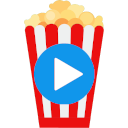
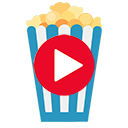
Dropdown for userList (#19)
* update icon &manifest

* remove 1.png

* commit

* merging the version 0.6

* changed the description to fit the wall

* update desciption

* description update

* dropdown update

* minor bugs fixed

* updated Dropdown by userlist

diff --git a/Extension/src/js/components/ChatBox.js b/Extension/src/js/components/ChatBox.js
@@ -1,9 +1,12 @@
+/* eslint-disable jsx-a11y/click-events-have-key-events */
+/* eslint-disable jsx-a11y/no-static-element-interactions */
 /* eslint-disable react/prop-types */
 import React from 'react';
 import * as io from 'socket.io-client';
 import { CopyToClipboard } from 'react-copy-to-clipboard';
 import ReactTooltip from 'react-tooltip';
-import { MdLastPage, MdFirstPage } from 'react-icons/md';
+import { MdLastPage, MdFirstPage, MdGroup } from 'react-icons/md';
+import { FiLink } from 'react-icons/fi';
 import { GiphyFetch } from '@giphy/js-fetch-api';
 import Message from './Message';
 import SendMessageForm from './SendMessageForm';
@@ -15,6 +18,25 @@ function typingStatusFromUsers(users) {
   if (users.length === 0) return '';
   return `${users.join(', ')} ${users.length > 1 ? 'are' : 'is'} typing...`;
 }
+/* When the user clicks on the button,
+  toggle between hiding and showing the dropdown content */
+function myFunction() {
+  document.getElementById('myDropdown').classList.toggle('show');
+}
+
+// Close the dropdown if the user clicks outside of it
+window.onclick = function (event) {
+  if (!event.target.matches('.dropbtn')) {
+    const dropdowns = document.getElementsByClassName('dropdown-content');
+    let i;
+    for (i = 0; i < dropdowns.length; i++) {
+      const openDropdown = dropdowns[i];
+      if (openDropdown.classList.contains('show')) {
+        openDropdown.classList.remove('show');
+      }
+    }
+  }
+};
 
 class ChatBox extends React.Component {
   constructor(props) {
@@ -474,17 +496,34 @@ class ChatBox extends React.Component {
                 <div id="collapse-chat" className="collapse-btn" onClick={() => this.showHide()}>
                   <MdLastPage style={{ width: '100%', height: '100%' }} />
                 </div>
+                <div className="title-box bold">
+                  BingeBox
+                </div>
                 <CopyToClipboard text={currentSession}>
-                  <div className="username-input" id="copy-session">
-                    Share your session ID -
-                    {' '}
-                    {currentSession}
+                  <div className="copy-session-btn" id="copy-session">
+                    <FiLink style={{ width: '100%', height: '100%' }} />
                   </div>
                 </CopyToClipboard>
+                <div className="dropdown">
+                  <button onClick="myFunction()" className="dropbtn" type="button">
+                    {' '}
+                    <MdGroup style={{ width: '100%', height: '100%' }} />
+                    {' '}
+                  </button>
+                  <div id="myDropdown" className="dropdown-content">
+                    <a><VoiceChatter socket={this.socket} onlineUsers={onlineUsers} liveCalls={liveCalls} updateLiveCalls={(calls) => this.updateLiveCalls(calls)} /></a>
+
+                  </div>
+                </div>
+                <div className="dropdown">
+                  <button className="dropbtn" type="button">
+                    <MdGroup style={{ width: '100%', height: '100%' }} />
+                  </button>
+                  <div className="dropdown-content">
+                    <div><VoiceChatter socket={this.socket} onlineUsers={onlineUsers} liveCalls={liveCalls} updateLiveCalls={(calls) => this.updateLiveCalls(calls)} /></div>
+                  </div>
+                </div>
               </div>
-            </div>
-            <div className="card-psychic session-header" style={{ gridRow: 2 }}>
-              <VoiceChatter socket={this.socket} onlineUsers={onlineUsers} liveCalls={liveCalls} updateLiveCalls={(calls) => this.updateLiveCalls(calls)} />
             </div>
             <div id="chat-message-list">
               {receivedMsgs.map((messageData) => <Message username={nicknameInput} messageData={messageData} userId={this.socket.id} />)}

diff --git a/Extension/src/js/components/chatbox.css b/Extension/src/js/components/chatbox.css
@@ -90,7 +90,7 @@
   flex-direction: column-reverse;
   padding: 0 10px;
   margin-top: 10px;
-  grid-row: 3 / 19;
+  grid-row: 2 / 19;
   overflow-y: scroll;
 }
 .message-row {
@@ -240,28 +240,53 @@
 .session-header {
   grid-row: 1;
   width: 100%;
+  height: 60px;
   border-radius: 0;
   background: #121212;
   border-bottom: solid 0.5px rgba(255,255,255,0.1);
   margin-bottom: 0;
 }
+.title-box{
+  padding: 10px!important;
+  height: 40px;
+  width: 70%;
+  outline: 0;
+  font-size: 16px;
+  display: flex;
+  align-items: center;
+  /* background-color: rgba(255,255,255,0.04); */
+}
 #copy-session {
   transition: background-color .2s ease-in-out!important;
-  width: 90%;
+  width: auto;
   text-align: center;
   user-select: none;
   font-weight: 500;
   font-size: 14px;
   color: rgba(255, 255, 255, 0.88);
-  background-color: rgba(0,0,0,0.3);
   cursor: pointer;
+}
+.copy-session-btn {
+  position: relative;
+  padding: 10px!important;
+  height: 40px;
+  width: 100%;
+  outline: 0;
+  font-size: 16px;
+  color: var(--text-normal);
+}
+.copy-session-btn:hover {
+  background-color: rgba(255,255,255,0.3);
+  -webkit-box-sizing: border-box;
+  box-sizing: border-box;
+  border-radius: 3px;
+  border: 1px solid rgba(255,255,255,0.06);
+  -webkit-transition: border-color .2s ease-in-out!important;
+  transition: border-color .2s ease-in-out!important;
 }
 .collapse-btn {
   width: 20px;
   cursor: pointer;
-  align-self: center;
-  text-align: center;
-  /* width: 5%; */
   margin-right: 5%;
   transition: background-color .2s ease-in-out!important;
   border-radius: 2px;
@@ -288,6 +313,55 @@
 }
 .show-hide-button svg {
   fill: rgba(255, 255, 255, 0.87);
+}
+.dropbtn {
+  color: white;
+  padding: 16px;
+  font-size: 16px;
+  border: none;
+  cursor: pointer;
+  
+  left: 5px;
+  padding: 10px!important;
+  height: 40px;
+  width: 100%;
+}
+.dropbtn:hover, .dropbtn:focus {
+  background: #202124;
+}
+.dropdown {
+  float: right;
+  position: relative;
+  display: block;
+}
+
+.dropdown-content {
+  display: none;
+  position: absolute;
+  background: #121212;
+  min-width: 300px;
+  overflow: auto;
+  box-shadow: 0px 8px 16px 0px rgba(0,0,0,0.2);
+  right: 0;
+  z-index: 1;
+  
+  width: 150%;
+}
+
+.dropdown-content a{
+  color: black;
+  padding: 12px 16px;
+  text-decoration: none;
+  display: block;
+  width: auto;
+  text-align: left;
+}
+
+.dropdown a:hover {background: #202124;}
+
+.show {display: block;}
+.bold {
+    font-weight: bold;
 }
 .active-user {
   vertical-align: middle;

diff --git a/Extension/src/js/modules/RTCPeer.js b/Extension/src/js/modules/RTCPeer.js
@@ -60,7 +60,7 @@ class RTCPeer {
             });
         });
     } catch (err) {
-      this.log('*** The following error occurred while handling the negotiationneeded event:');
+      this.log('*** The following error occurred while handling the negotiation needed event:');
       this.reportError(err);
     }
   }

diff --git a/Extension/src/js/components/VoiceChatter.js b/Extension/src/js/components/VoiceChatter.js
@@ -168,7 +168,7 @@ class VoiceChatter extends React.Component {
                 id={`audio-${user.id}`}
                 controls
                 autoPlay
-                style={{ display: 'none' }}
+                style={{ display: 'flex' }}
               />,
             ]
         ))}
